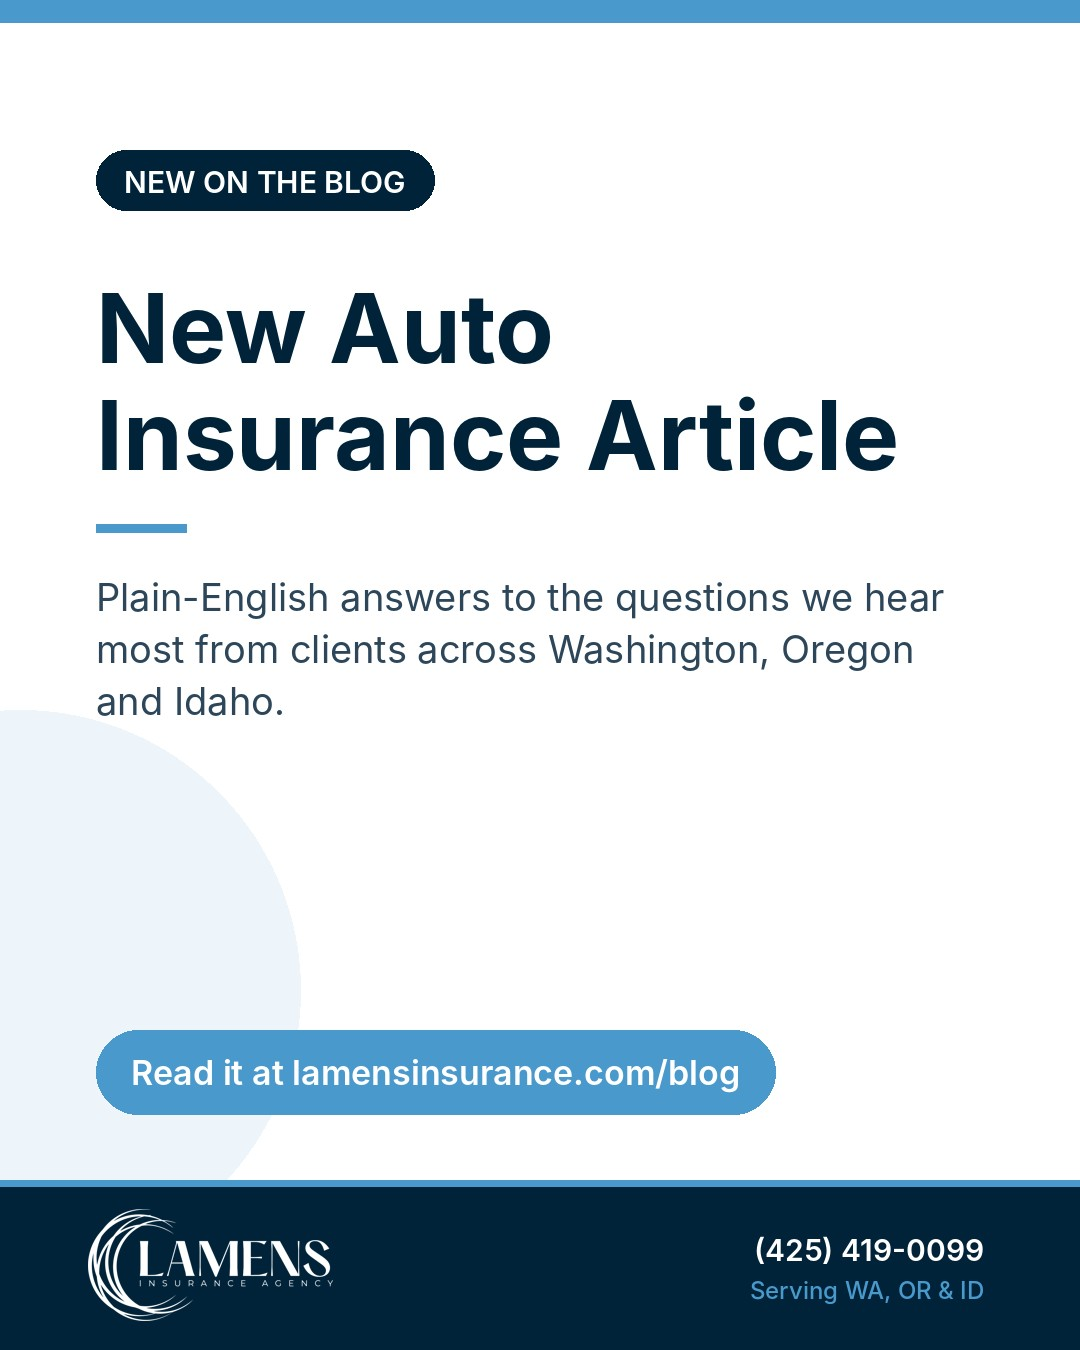
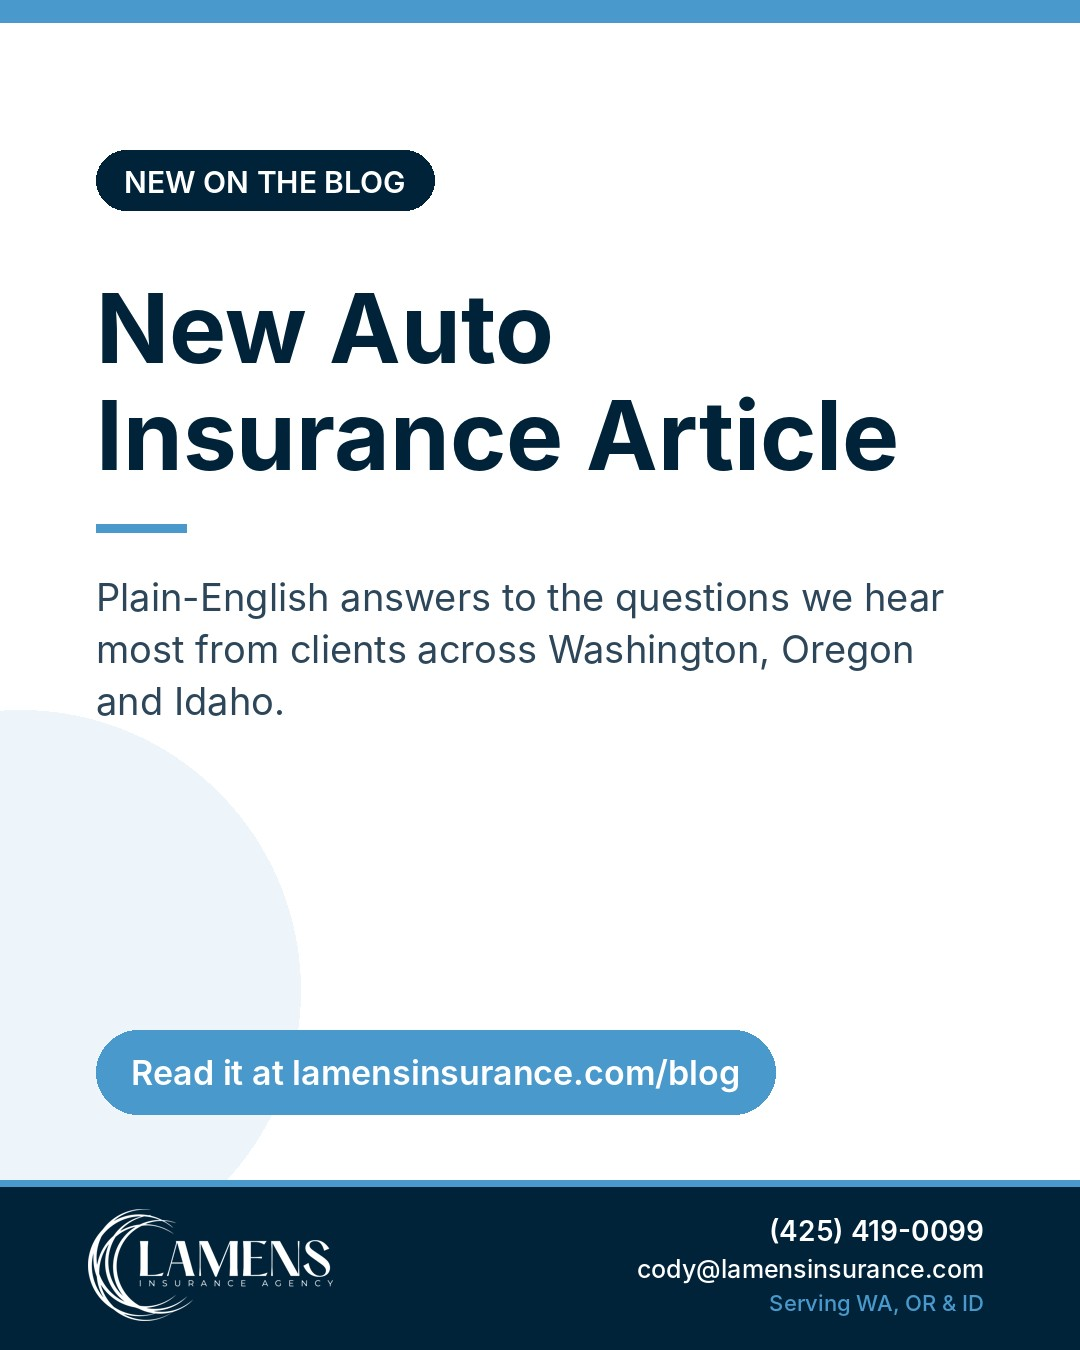
Add contact email to graphic footer; re-render week of Nov 13 and blog promo graphics
Claude-Session: https://claude.ai/code/session_01EuG4z7VexbMECLhzqN9b5o

Changed region(s): [[0.5806, 0.9022, 0.9167, 0.9956]]

diff --git a/tools/render_post.py b/tools/render_post.py
@@ -21,6 +21,7 @@ BLUE = (74, 153, 204)       # #4a99cc
 WHITE = (255, 255, 255)
 SOFT = (220, 233, 243)
 MARGIN = 96
+EMAIL = "cody@lamensinsurance.com"
 
 FONT_DIRS = ["/usr/share/fonts/opentype/inter", "/usr/share/fonts/truetype/dejavu"]
 def font(weight, size):
@@ -78,11 +79,14 @@ def footer(img, d, dark_bg, logo_path, cta):
         d.text((MARGIN, yc - 30), "Lamens Insurance Agency", font=font("bold", 34), fill=WHITE)
         d.text((MARGIN, yc + 12), "Insurance in Lamens Terms", font=font("med", 24), fill=BLUE)
     cta = cta or "(425) 419-0099"
-    f = font("semi", 30)
-    d.text((W - MARGIN - d.textlength(cta, font=f), yc - 34), cta, font=f, fill=WHITE)
-    sf = font("med", 24)
+    f = font("semi", 28)
+    d.text((W - MARGIN - d.textlength(cta, font=f), yc - 52), cta, font=f, fill=WHITE)
+    ef = font("med", 25)
+    em = EMAIL
+    d.text((W - MARGIN - d.textlength(em, font=ef), yc - 12), em, font=ef, fill=WHITE)
+    sf = font("med", 22)
     sv = "Serving WA, OR & ID"
-    d.text((W - MARGIN - d.textlength(sv, font=sf), yc + 10), sv, font=sf, fill=BLUE)
+    d.text((W - MARGIN - d.textlength(sv, font=sf), yc + 24), sv, font=sf, fill=BLUE)
 
 def render_tip(spec, logo):
     img = Image.new("RGB", (W, H), NAVY)
